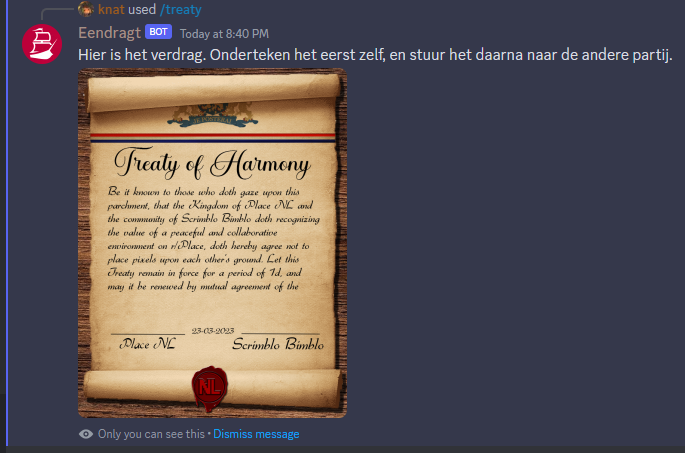
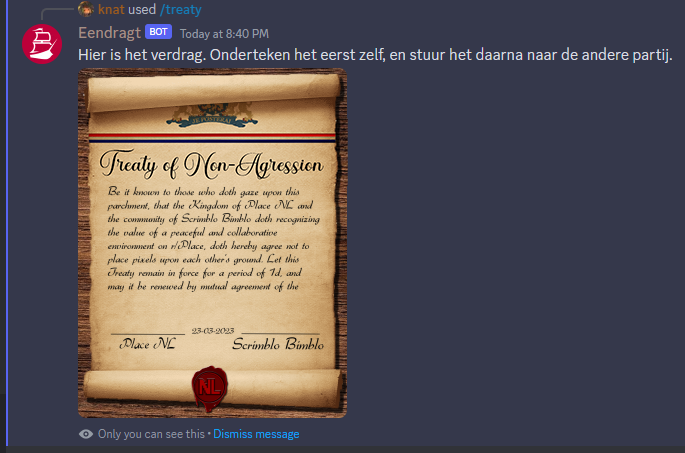
Update guide for new treaties

Changed region(s): [[0.1226, 0.2472, 0.4905, 0.4018], [0.4905, 0.3709, 0.5212, 0.4018]]

diff --git a/guide.md b/guide.md
@@ -203,18 +203,29 @@ Wanneer je iets hebt afgesproken met een diplomaat van een andere community, dan
 
 De DiploMod kan het `/treaty` commando gebruiken om een verdrag te genereren. Hierbij zijn er drie keuzes:
 
-**Partnership**
+**Non-Agression**
+
+Wij spreken met de andere partij af dat we elkaar niet aanvallen. Het betekent niet dat we elkaar helpen te verdedigen, alleen dat wij elkaars grenzen respecteren.
+
+**Mutual Defense**
+
+Wij spreken met de andere partij af dat als een van ons wordt aangevallen, de andere partij ons zal helpen verdedigen.
+
+**Solidarity**
 
 Wij helpen de andere partij artwork te bouwen, en in ruil daarvoor gebruikt de community van de andere partij onze autoplacers. Het zijn ten slotte onze autoplacers die hun artwork bouwen.
 
-**Harmony**
+**Friendship**
 
-Wij spreken met de andere partij af dat we elkaar niet aanvallen. Het betekent niet dat we elkaar helpen te verdedigen, alleen dat wij elkaars grenzen respecteren.
+We sluiten vriendschap met de andere partij. Op de grens van onze gebieden plaatsen we artwork die relevant is voor ons beiden (bijvoorbeeld Alfred met Japan).
 
 **Acquisition**
 
 Wij verhuizen de partij naar een andere plek, zodat wij de plek kunnen claimen waar de partij momenteel op staat.
 
+**Custom**
+
+Als je geen van bovenstaande opties kan gebruiken, dan kan je een eigen verdrag opstellen.
 
 ![](images/guide/diplomacy/treaties/slash.png)
 
